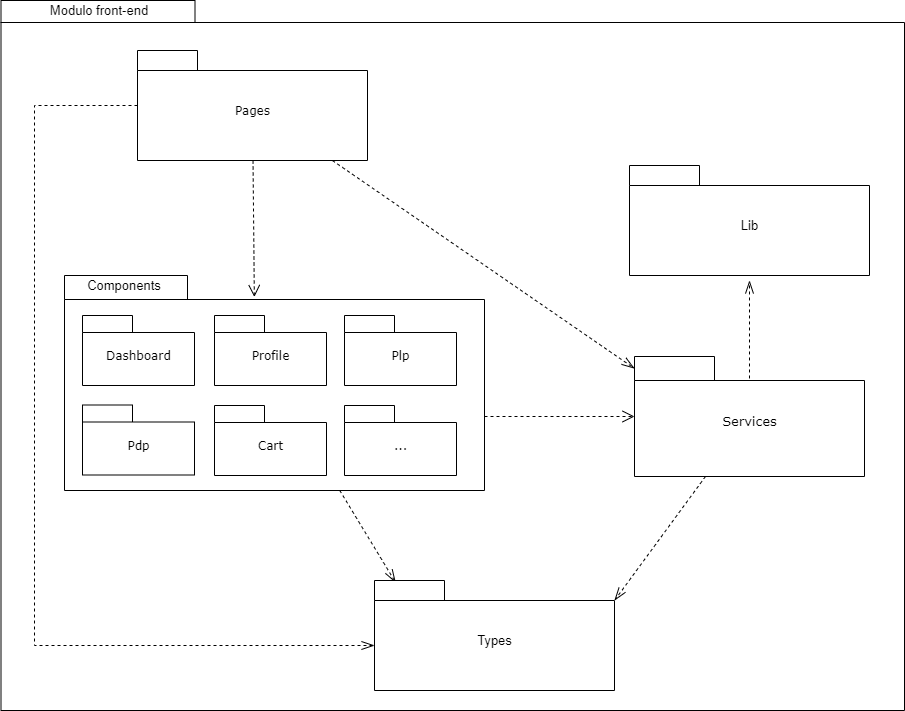
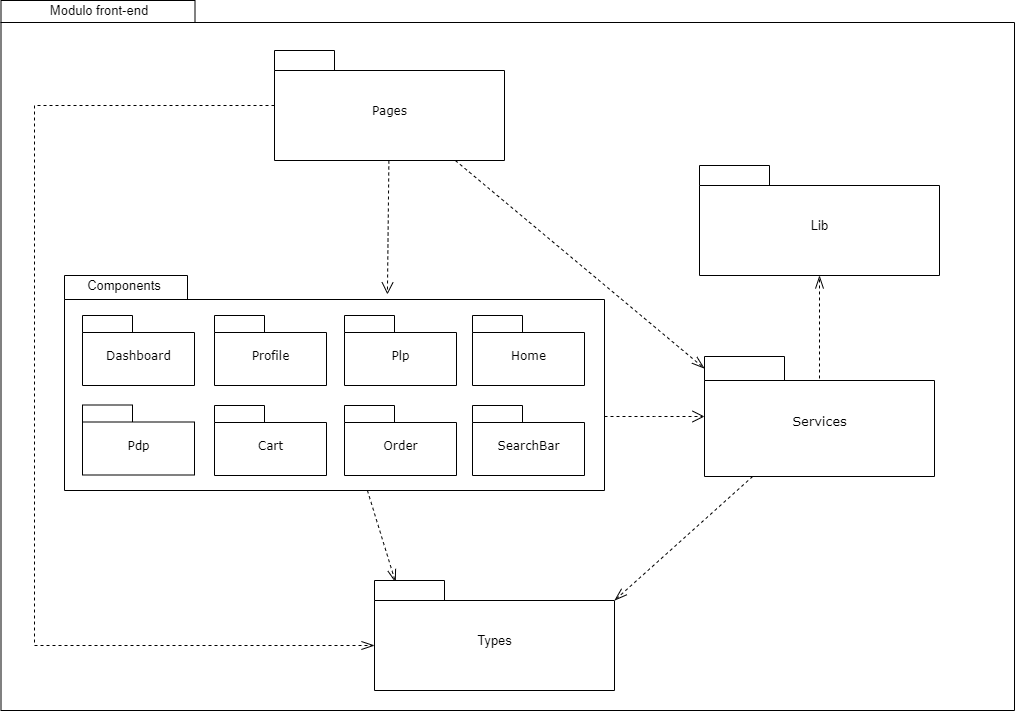
backend architettura aggiunta, fix vari, aggiunto glossario stripe

diff --git a/DocumentazioneEsterna/DeveloperManual/res/Architettura/Frontend/Services.tex b/DocumentazioneEsterna/DeveloperManual/res/Architettura/Frontend/Services.tex
@@ -1,14 +1,35 @@
-\subsection{Services}
+\subsubsection{Services}
 This part of the architecture lets the \textit{EmporioLambda} Front-end\textsubscript{G} module retrieve or send data to the \textit{EmporioLambda} Back-end\textsubscript{G} module. Services can be found inside the \textit{pages/api/Services} of the Front-end\textsubscript{G} module.\\
-Each service has the following composition:
+
+The services are divided in domains, and each of them consist in a series of public asynchronous functions. Each function calls the API present in the backend (through the lib package), gets the response data, manages it, and return the correct response to the component that called it.
+
+In the following diagram class, every service is represented as an UML class, even if each of them consist only in public functions. Since every function is asynchronous, the return types should be Promises. We will show the true type inside the Promise type.
+
+\begin{figure}[H]
+\centering
+\includegraphics[scale=0.50]{res/Architettura/Frontend/img/services_frontend_class}\\
+\caption{Front-end\textsubscript{G} Services layer class diagram}
+\end{figure}
+
+
+Each service calls the APIs with the \textit{getJSONResponse} function, present in the lib package. The parameters requested are the following:
+
 \begin{itemize}
-\item a Fetcher class which contains an URL generated with the pulled enviroment variables. The constructor requires the name of the function that will be called in the Back-end\textsubscript{G};
-\item a getJSONResponse function which tries to make an API\textsubscript{G} call to the Back-end\textsubscript{G} and return the response. The return type is a Promise\textsubscript{G}, as this is an asyncronous\textsubscript{G} operation;
-\item a getLambdaResponse function which accepts the following parameters:\begin{itemize}
 \item a string which indicates the name of the function you want to call in your Back-end\textsubscript{G}; 
 \item a string which indicates the type of the call you want to do (GET, POST, PUT...);
 \item a string containing the access token of the current session; 
 \item a string containing the parameters needed for the API\textsubscript{G} call. 
 \end{itemize} 
-This function creates a new Fetcher object and executes the getJSONResponse method. This is the function you must call in your services.
-\end{itemize}
+
+
+%\begin{itemize}
+%\item a Fetcher class which contains an URL generated with the pulled enviroment variables. The constructor requires the name of the function that will be called in the Back-end\textsubscript{G};
+%\item a getJSONResponse function which tries to make an API\textsubscript{G} call to the Back-end\textsubscript{G} and return the response. The return type is a Promise\textsubscript{G}, as this is an asyncronous\textsubscript{G} operation;
+%\item a getLambdaResponse function which accepts the following parameters:\begin{itemize}
+%\item a string which indicates the name of the function you want to call in your Back-end\textsubscript{G}; 
+%\item a string which indicates the type of the call you want to do (GET, POST, PUT...);
+%\item a string containing the access token of the current session; 
+%\item a string containing the parameters needed for the API\textsubscript{G} call. 
+%\end{itemize} 
+%This function creates a new Fetcher object and executes the getJSONResponse method. This is the function you must call in your services.
+%\end{itemize}

diff --git a/DocumentazioneEsterna/DeveloperManual/res/Architettura/Backend/backend.tex b/DocumentazioneEsterna/DeveloperManual/res/Architettura/Backend/backend.tex
@@ -1,0 +1,43 @@
+\subsection{Back-end module architecture}
+This section shows how the Back-end\textsubscript{G} module of EmporioLambda works. \\The Back-end\textsubscript{G} is based on the microservices/serverless pattern, where every function that manages an API request can be individually deployed and managed. Practically, the module is managed by the developers as a monolith, that can be divided in 3 layers:
+\begin{itemize}
+\item \textbf{Handler:} manages the API requests;
+\item \textbf{Model:} manages the objects used by the module;
+\item \textbf{Services:} manages the external services, like AWS and Stripe;
+\end{itemize} 
+
+The Front-end\textsubscript{G} module interacts with the Back-end one through API calls, exposed by AWS\textsubscript{G} API Gateway. This service sorts those requests to the \textbf{Handler} layer of the architecture, that consists on AWS\textsubscript{G} Lambda functions, divided by domains.\\
+The function that is in charge of managing the request will call the \textbf{Services} layer, to offer an interface to the main external services used.\\
+If necessary, the function in question will use the \textbf{Model} layer, to manage the objects used by it, like products or users.\\
+
+The module can be summarized in the following scheme: 
+
+\begin{figure}[H]
+\centering
+\includegraphics[scale=0.45]{res/Architettura/Backend/img/layerBack-end}\\
+\caption{Back-end\textsubscript{G} module general scheme}
+\end{figure}
+
+The module can be also represented by the following package diagram:
+
+\begin{figure}[H]
+\centering
+\includegraphics[scale=0.45]{res/Architettura/Backend/img/package-back-end}\\
+\caption{Back-end\textsubscript{G} package diagram}
+\end{figure}
+
+\begin{itemize}
+\item \textbf{endpoint}: it's the \textbf{Handler} layer described previously;
+\item \textbf{services}: it's the \textbf{Services} layer described previously;
+\item \textbf{model}: it's the \textbf{Model} layer described previously;
+\item \textbf{lib}: contains support functions used by the endpoint package. One example is the managing of the API response.
+\end{itemize}
+
+All of these packages can be found on the \textit{src} folder, divided by folders, named by their package name.
+
+\input{res/Architettura/Backend/model}
+\input{res/Architettura/Backend/services}
+\input{res/Architettura/Backend/handler}
+
+
+

diff --git a/DocumentazioneEsterna/DeveloperManual/res/Architettura/Backend/handler.tex b/DocumentazioneEsterna/DeveloperManual/res/Architettura/Backend/handler.tex
@@ -1,0 +1,29 @@
+\subsubsection{Handler}
+The \textbf{Handler} layer manages the requests sent from AWS\textsubscript{G} API Gateway and calls the other layers to fulfill them.\\
+It is divided in domains and every domain contains a number of AWS\textsubscript{G} Lambda functions, the effective handlers of the requests. Finally, every function is located in file of its own.\\
+To represent this, we will use the following package diagram, where every file/function is a unit inside the specific package.
+
+\begin{figure}[H]
+\centering
+\includegraphics[scale=0.65]{res/Architettura/Backend/img/handler_package}\\
+\caption{Back-end\textsubscript{G} Handler layer package diagram}
+\end{figure}
+
+Through this sequence diagram, we will show how a request can be fulfilled by all the layers. In this example, we represent the process of obtaining the details of a product and sending them to the front-end\textsubscript{G}.
+
+\begin{figure}[H]
+\centering
+\includegraphics[scale=0.45]{res/Architettura/Backend/img/diagrammaSequenzaRicezioneProdotto}\\
+\caption{Back-end\textsubscript{G} sequence diagram: obtain product details}
+\end{figure}
+
+\begin{itemize}
+\item \textbf{ApiGatewayProxyHandler} is how the function is called inside the \textit{getById} file, inside the \textit{product} domain;
+\item \textbf{APIresponses} is a class inside the \textit{lib} package and manages the response to the front-end\textsubscript{G};
+\item \textbf{Dynamo} is the dynamo module inside the \textit{service} module;
+\item \textbf{DynamoDB.DocumentClient} is a class of the \textit{AWS-sdk}, and represents the effective database.
+
+\end{itemize}
+
+
+

diff --git a/DocumentazioneEsterna/DeveloperManual/res/Architettura/Frontend/Overview.tex b/DocumentazioneEsterna/DeveloperManual/res/Architettura/Frontend/Overview.tex
@@ -9,21 +9,26 @@ This section shows how the Front-end\textsubscript{G} module of EmporioLambda wo
 The image below shows how these parts communicate with each other:
 \begin{figure}[H]
 \centering
-\includegraphics[scale=0.58]{res/Architettura/Frontend/img/general_frontend}\\
+\includegraphics[scale=0.70]{res/Architettura/Frontend/img/general_frontend}\\
 \caption{Front-end\textsubscript{G} module general scheme}
 \end{figure}
 \newpage
 Here's also a package diagram of the Front-end module:
 \begin{figure}[H]
 \centering
-\includegraphics[scale=0.50]{res/Architettura/Frontend/img/package_frontend}\\
+\includegraphics[scale=0.40]{res/Architettura/Frontend/img/package_frontend}\\
 \caption{Front-end\textsubscript{G} module package\textsubscript{G} diagram}
 \end{figure}
+
+\textbf{lib}: contains support functions to standardize the calls to our Back-end module\textsubscript{G}.\\
+ The rest of the packages will be explained in the next sections.
+
 \newpage
-In the following sequence diagram representing the insert of an item in the cart is possible to see how the different parts of the Front-end module work:
+In the following sequence diagram, representing the insertion of an item in the cart, is possible to see how the different parts of the Front-end module work:
 \begin{figure}[H]
 \centering
 \includegraphics[scale=0.70]{res/Architettura/Frontend/img/sequence_frontend_insertCart}\\
 \caption{Front-end\textsubscript{G} module insert of an item in cart sequence diagram}
 \end{figure}
+
 

diff --git a/DocumentazioneEsterna/DeveloperManual/res/Architettura/Frontend/Components.tex b/DocumentazioneEsterna/DeveloperManual/res/Architettura/Frontend/Components.tex
@@ -12,5 +12,8 @@ React container components can accept 2 variables on their creation:
 \item \textbf{state:} variables whose change cause the component to re-render. Its value must be initialized from the component constructor and is read-only.
 \end{itemize}
 Presentational components can only accept the props variable.\\
-The use of the state variables introduces the second design pattern used by EmporioLambda: the observer pattern. This pattern isn't manually implemented by us, as it is a native React pattern. In our case the state of the component is our \textit{observable}: the components check whether the state has been changed, and if it has they re-render the page.\\More information about the observer pattern can be found in this page:\\
+The use of the state variables introduces the second design pattern used by EmporioLambda: the observer pattern. This pattern isn't manually implemented by us, as it is a native React pattern. In our case the state of the component is our \textit{observable}: the component, when the state has been changed, re-render the page automatically, with the new values, re-rendering also its children.\\More information about the observer pattern can be found in this page:\\
 \url{https://en.wikipedia.org/wiki/Observer_pattern}.\\
+
+The following diagrams will show the structure of every page, adapted to the UML syntax. The presentational and container will be recognized by their colors: blue for the first, red for the latter. 
+

diff --git a/DocumentazioneEsterna/DeveloperManual/res/Glossario/Glossario.tex b/DocumentazioneEsterna/DeveloperManual/res/Glossario/Glossario.tex
@@ -2,26 +2,26 @@
 \input{res/Glossario/Alfabeto/A}
 \input{res/Glossario/Alfabeto/B}
 \input{res/Glossario/Alfabeto/C}
-\input{res/Glossario/Alfabeto/D}
+%\input{res/Glossario/Alfabeto/D}
 \input{res/Glossario/Alfabeto/E}
 \input{res/Glossario/Alfabeto/F}
 \input{res/Glossario/Alfabeto/G}
 \input{res/Glossario/Alfabeto/H}
-\input{res/Glossario/Alfabeto/I}
+%\input{res/Glossario/Alfabeto/I}
 \input{res/Glossario/Alfabeto/J}
-\input{res/Glossario/Alfabeto/K}
-\input{res/Glossario/Alfabeto/L}
-\input{res/Glossario/Alfabeto/M}
-\input{res/Glossario/Alfabeto/N}
+%\input{res/Glossario/Alfabeto/K}
+%\input{res/Glossario/Alfabeto/L}
+%\input{res/Glossario/Alfabeto/M}
+%\input{res/Glossario/Alfabeto/N}
 \input{res/Glossario/Alfabeto/O}
 \input{res/Glossario/Alfabeto/P}
-\input{res/Glossario/Alfabeto/Q}
+%\input{res/Glossario/Alfabeto/Q}
 \input{res/Glossario/Alfabeto/R}
 \input{res/Glossario/Alfabeto/S}
 \input{res/Glossario/Alfabeto/T}
 \input{res/Glossario/Alfabeto/U}
 \input{res/Glossario/Alfabeto/V}
-\input{res/Glossario/Alfabeto/W}
-\input{res/Glossario/Alfabeto/X}
-\input{res/Glossario/Alfabeto/Y}
-\input{res/Glossario/Alfabeto/Z}
+%\input{res/Glossario/Alfabeto/W}
+%\input{res/Glossario/Alfabeto/X}
+%\input{res/Glossario/Alfabeto/Y}
+%\input{res/Glossario/Alfabeto/Z}

diff --git a/DocumentazioneEsterna/DeveloperManual/res/Setup/Configurazione/ConfigFrontend.tex b/DocumentazioneEsterna/DeveloperManual/res/Setup/Configurazione/ConfigFrontend.tex
@@ -53,9 +53,9 @@ Plaintext & NEXT\_PUBLIC\_SITE & Development & http://localhost:3000\\
 Plaintext & NEXT\_PUBLIC\_STAGE & Production & staging\\
 Plaintext & NEXT\_PUBLIC\_STAGE & Preview & test\\
 Plaintext & NEXT\_PUBLIC\_STAGE & Development & local\\
-Secret & NEXT\_PUBLIC\_API\_ID & Production & @next-public-api-id-staging\\
-Plaintext & NEXT\_PUBLIC\_API\_ID & Preview & \\
-Plaintext & NEXT\_PUBLIC\_API\_ID & Development & \\
+Secret & NEXT\_PUBLIC\_API\_ID & Production & API endpoint provided by AWS when the backend is deployed to the staging environment (or the domain, if used)\\
+Plaintext & NEXT\_PUBLIC\_API\_ID & Preview & API endpoint provided by AWS when the backend is deployed to the test environment (or the domain, if used)\\
+Plaintext & NEXT\_PUBLIC\_API\_ID & Development & API endpoint provided by AWS when he backend is deployed to the local environment (or the domain, if used)\\
 Plaintext & NEXT\_PUBLIC\_REGION\_API & Production, Preview, Development & Insert here the location of your AWS account (example: eu-central-1). \\
 Plaintext & JWT\_SIGNING\_PRIVATE\_KEY & Production, Preview, Development & run the commands:
 \begin{enumerate}

diff --git a/DocumentazioneEsterna/DeveloperManual/res/Architettura/Frontend/Types.tex b/DocumentazioneEsterna/DeveloperManual/res/Architettura/Frontend/Types.tex
@@ -1,4 +1,4 @@
-\subsection{Types}
+\subsubsection{Types}
 Service calls usually return data in the JSON format. Javascript\textsubscript{G} and Typescript\textsubscript{G} are able to convert the JSON\textsubscript{G} format into a class object.\\
 Because of this, the \textit{EmporioLambda} Front-end\textsubscript{G} module uses many not-primitive interfaces and classes in order to correctly convert the received JSON\textsubscript{G} data. These classes can be found inside the src/objects folder. To send data, you can use the JSON.stringify function which converts an object passed as parameter into a JSON\textsubscript{G} format string.\\Here's a class diagram that shows these classes and their dependencies between each other:
 \vspace{0.5cm}

diff --git a/DocumentazioneEsterna/DeveloperManual/res/Architettura/Backend/services.tex b/DocumentazioneEsterna/DeveloperManual/res/Architettura/Backend/services.tex
@@ -1,0 +1,11 @@
+\subsubsection{Services}
+The \textbf{Services} layer contains functions used to create an inteface for external services, like AWS\textsubscript{G} and Stripe\textsubscript{G}.\\
+In the following class diagram we show every typescript\textsubscript{G} module used. We will represent every module as a class, since it contains public functions and it's used as a cached singleton, thanks to the typescript definition.
+
+\begin{figure}[H]
+\centering
+\includegraphics[scale=0.60]{res/Architettura/Backend/img/services_class}\\
+\caption{Back-end\textsubscript{G} Services layer class diagram}
+\end{figure}
+
+

diff --git a/DocumentazioneEsterna/DeveloperManual/res/Glossario/Alfabeto/S.tex b/DocumentazioneEsterna/DeveloperManual/res/Glossario/Alfabeto/S.tex
@@ -8,3 +8,6 @@
 \TermineGlossario{Static generation}
 \DefinizioneGlossario{Rendering process of HTML and CSS pages starting from the server, and not from the client. The server renders pages before requests, for example at the time the build is run. Already rendered HTML pages are cached and ready to be sent at the time of requests.}
 \\
+\TermineGlossario{Stripe}
+\DefinizioneGlossario{Company that primarily offers payment processing software and application programming interfaces (APIs) for e-commerce websites and mobile applications.}
+\\

diff --git a/DocumentazioneEsterna/DeveloperManual/res/Sviluppo/Test/Test.tex b/DocumentazioneEsterna/DeveloperManual/res/Sviluppo/Test/Test.tex
@@ -2,7 +2,8 @@
 This section shows how to run the testing process to check whether your code is working correctly and whether it follows the correct syntax. \\ 
 To test the EmporioLambda code the following tools will be used:
 \begin{itemize}
-\item \textbf{Cypress}: for unit testing;
+\item \textbf{Cypress}: for front-end testing;
+\item \textbf{Mocha}: for back-end testing;
 \item \textbf{ESLint\textsubscript{G}} and \textbf{Prettier} for the syntax check of the code.
 \end{itemize}
 

diff --git a/DocumentazioneEsterna/DeveloperManual/res/Architettura/Backend/model.tex b/DocumentazioneEsterna/DeveloperManual/res/Architettura/Backend/model.tex
@@ -1,0 +1,11 @@
+\subsubsection{Model}
+The \textbf{Model} layer represents the objects used by the \textbf{Handler} layer. \\
+In the following class diagram we show every class used in the layer.
+
+\begin{figure}[H]
+\centering
+\includegraphics[scale=0.40]{res/Architettura/Backend/img/diagrammaClassiBack-end}\\
+\caption{Back-end\textsubscript{G} Model layer class diagram}
+\end{figure}
+
+
